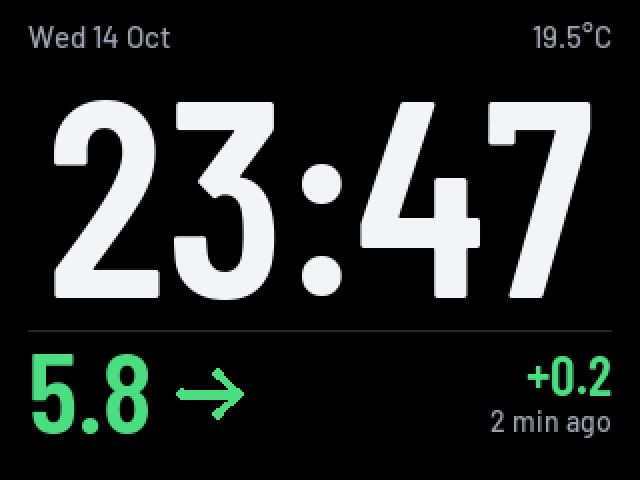
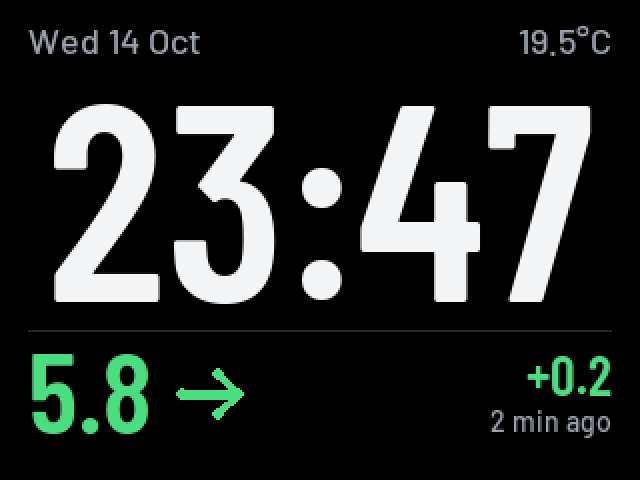
Embed fonts in the firmware; larger date and temperature
Fonts moved from the SD card into fonts/ and are embedded with
board_build.embed_files, read from flash (no RAM, updated with OTA). The
SD card now only needs M5NS.INI. Built-in font fallbacks removed.

Date and temperature now use an 18px font (was 15px) with a 22px top
line; the clock area shrinks by 4px (digits unchanged).

diff --git a/src/display.cpp b/src/display.cpp
@@ -1,7 +1,6 @@
 #include "display.h"
 
 #include <M5Unified.h>
-#include <SD.h>
 
 #include <algorithm>
 
@@ -16,12 +15,12 @@ constexpr int kPadBottom = 12;
 constexpr int kContentW = kW - 2 * kPadX;  // 292: every region is this wide
 
 constexpr int kTopY = kPadTop;
-constexpr int kTopH = 18;
+constexpr int kTopH = 22;
 constexpr int kStripH = 62;
 constexpr int kStripY = kH - kPadBottom - kStripH;  // 166
 constexpr int kDividerY = kStripY - 1;              // 165
-constexpr int kClockY = kTopY + kTopH + 8;          // 36
-constexpr int kClockH = kDividerY - 1 - kClockY;    // 128
+constexpr int kClockY = kTopY + kTopH + 8;          // 40
+constexpr int kClockH = kDividerY - 1 - kClockY;    // 124
 
 constexpr int kBandH = 32;  // band sprite: 292 x 32 x 16 bit = 18.7 KB
 
@@ -53,42 +52,37 @@ uint32_t rangeColor(BgRange r) {
 
 // ---- Fonts ------------------------------------------------------------------
 
-// Lets M5GFX stream VLW glyphs straight from an SD card file, so the large
-// clock font never has to fit in RAM.
-struct FileData : public lgfx::DataWrapper {
-  fs::File file;
-  int read(uint8_t* buf, uint32_t len) override { return file.read(buf, len); }
-  void skip(int32_t offset) override { file.seek(offset, SeekCur); }
-  bool seek(uint32_t offset) override { return file.seek(offset); }
-  void close() override {
-    if (file) file.close();
-  }
-  int32_t tell() override { return file.position(); }
-};
+// The .vlw fonts (generated by tools/make_fonts.py) are embedded in the
+// firmware image via board_build.embed_files and read straight from flash,
+// so they cost no RAM and change with a normal firmware update.
+#define EMBEDDED_FONT(name)                                                   \
+  extern const uint8_t name##_start[] asm("_binary_fonts_" #name "_vlw_start"); \
+  extern const uint8_t name##_end[] asm("_binary_fonts_" #name "_vlw_end");
+EMBEDDED_FONT(clock)
+EMBEDDED_FONT(bg)
+EMBEDDED_FONT(delta)
+EMBEDDED_FONT(text18)
+EMBEDDED_FONT(text14)
 
 struct Face {
-  const char* path;
-  const lgfx::IFont* fallback;  // built-in font if the .vlw is missing
-  float fallbackScale;
+  lgfx::PointerWrapper data;
   lgfx::VLWfont vlw;
-  FileData data;
-  bool loaded = false;
   int digitH = 0;  // height of "0" above the baseline, for vertical centring
 
-  Face(const char* p, const lgfx::IFont* f, float s) : path(p), fallback(f), fallbackScale(s) {}
+  Face(const uint8_t* start, const uint8_t* end) : data(start, end - start) {}
 };
 
-Face gClockFace("/fonts/clock.vlw", &fonts::Font8, 1.0f);  // scale computed in begin
-Face gBgFace("/fonts/bg.vlw", &fonts::Font6, 1.0f);
-Face gDeltaFace("/fonts/delta.vlw", &fonts::FreeSansBold12pt7b, 1.0f);
-Face gTextFace("/fonts/text15.vlw", &fonts::Font2, 1.0f);
-Face gSmallFace("/fonts/text14.vlw", &fonts::Font2, 1.0f);
+Face gClockFace(clock_start, clock_end);
+Face gBgFace(bg_start, bg_end);
+Face gDeltaFace(delta_start, delta_end);
+Face gTextFace(text18_start, text18_end);  // date, temperature
+Face gSmallFace(text14_start, text14_end);  // "N min ago"
 Face* const gFaces[] = {&gClockFace, &gBgFace, &gDeltaFace, &gTextFace, &gSmallFace};
 
 uint32_t be32(const uint8_t* p) { return (uint32_t)p[0] << 24 | p[1] << 16 | p[2] << 8 | p[3]; }
 
 // Reads the "0" glyph's top offset from the VLW metrics table.
-int vlwDigitHeight(FileData& d, int count) {
+int vlwDigitHeight(lgfx::DataWrapper& d, int count) {
   uint8_t m[28];
   for (int i = 0; i < count; i++) {
     d.seek(24 + i * 28);
@@ -99,65 +93,27 @@ int vlwDigitHeight(FileData& d, int count) {
 }
 
 void loadFace(Face& f) {
-  f.data.file = SD.open(f.path, FILE_READ);
-  if (!f.data.file) {
-    Serial.printf("display: %s missing, using built-in font\n", f.path);
-    return;
-  }
   if (!f.vlw.loadFont(&f.data)) {
-    Serial.printf("display: %s is not a valid VLW font\n", f.path);
-    f.data.close();
+    Serial.println("display: embedded font failed to load");
     return;
   }
   f.digitH = vlwDigitHeight(f.data, f.vlw.gCount);
-  f.loaded = true;
 }
 
 LGFX_Sprite gBand(&M5.Display);
 
 enum class Align { Left, Center, Right };
 
-void useFace(LGFX_Sprite& s, const Face& f) {
-  s.setFont(f.loaded ? static_cast<const lgfx::IFont*>(&f.vlw) : f.fallback);
-  s.setTextSize(f.loaded ? 1.0f : f.fallbackScale);
-}
-
-// Built-in fonts are ASCII only: drop the degree sign, use a plain minus.
-const char* asciiFor(const Face& f, const char* text, char* buf, size_t len) {
-  if (f.loaded) return text;
-  size_t o = 0;
-  for (const char* p = text; *p && o + 1 < len; p++) {
-    if ((uint8_t)p[0] == 0xC2 && (uint8_t)p[1] == 0xB0) { p++; continue; }  // °
-    if ((uint8_t)p[0] == 0xE2 && (uint8_t)p[1] == 0x88 && (uint8_t)p[2] == 0x92) {  // −
-      buf[o++] = '-';
-      p += 2;
-      continue;
-    }
-    buf[o++] = *p;
-  }
-  buf[o] = 0;
-  return buf;
-}
-
 // Draws text vertically centred on the digits at centerY. Returns its width.
 int drawText(LGFX_Sprite& s, const Face& f, const char* text, int x, int centerY, Align align,
              uint32_t color) {
-  char buf[32];
-  text = asciiFor(f, text, buf, sizeof(buf));
-  useFace(s, f);
+  s.setFont(&f.vlw);
+  s.setTextSize(1);
   s.setTextColor(color);  // no background: anti-aliasing blends with the sprite
-  int y = centerY;
-  if (f.loaded) {
-    s.setTextDatum(align == Align::Left    ? textdatum_t::baseline_left
-                   : align == Align::Right ? textdatum_t::baseline_right
-                                           : textdatum_t::baseline_center);
-    y += f.digitH / 2;
-  } else {
-    s.setTextDatum(align == Align::Left    ? textdatum_t::middle_left
-                   : align == Align::Right ? textdatum_t::middle_right
-                                           : textdatum_t::middle_center);
-  }
-  s.drawString(text, x, y);
+  s.setTextDatum(align == Align::Left    ? textdatum_t::baseline_left
+                 : align == Align::Right ? textdatum_t::baseline_right
+                                         : textdatum_t::baseline_center);
+  s.drawString(text, x, centerY + f.digitH / 2);
   return s.textWidth(text);
 }
 
@@ -248,7 +204,7 @@ void drawStrip(const ScreenModel& m) {
     drawTrend(s, m.trend, w + kArrowGap, cy, color);
 
     if (m.delta[0]) {
-      // Typographic minus for negative deltas (VLW font has U+2212).
+      // Typographic minus for negative deltas.
       char delta[12];
       if (m.delta[0] == '-')
         snprintf(delta, sizeof(delta), "\xE2\x88\x92%s", m.delta + 1);
@@ -281,21 +237,6 @@ void displayBegin() {
 
   gBand.setColorDepth(16);
   if (!gBand.createSprite(kContentW, kBandH)) Serial.println("display: band sprite alloc failed");
-
-  if (!gClockFace.loaded) {
-    // Scale the built-in digit font up to fill the clock width.
-    gBand.setFont(gClockFace.fallback);
-    gBand.setTextSize(1);
-    float sx = (float)kContentW / gBand.textWidth("00:00");
-    float sy = (float)kClockH / gBand.fontHeight();
-    gClockFace.fallbackScale = std::min(sx, sy);
-  }
-}
-
-int displayFontsLoaded() {
-  int n = 0;
-  for (Face* f : gFaces) n += f->loaded;
-  return n;
 }
 
 void displayMessage(const char* title, const char* detail) {

diff --git a/tools/make_fonts.py b/tools/make_fonts.py
@@ -7,9 +7,10 @@ into the VLW anti-aliased font format read by M5GFX / LovyanGFX / TFT_eSPI.
 Usage (from the repo root):
     python3 -m venv tools/.venv
     tools/.venv/bin/pip install pillow
-    tools/.venv/bin/python tools/make_fonts.py          # writes SD/fonts/*.vlw
+    tools/.venv/bin/python tools/make_fonts.py          # writes fonts/*.vlw
 
-Copy the SD/fonts folder to the root of the microSD card (-> /fonts/*.vlw).
+The fonts are embedded in the firmware (board_build.embed_files in
+platformio.ini), so rebuild and flash after regenerating them.
 
 The Barlow fonts are (c) The Barlow Project Authors, SIL Open Font License 1.1
 (see tools/ttf/OFL.txt). If the .ttf files are missing they are downloaded
@@ -26,7 +27,7 @@ from PIL import Image, ImageDraw, ImageFont
 
 ROOT = os.path.dirname(os.path.dirname(os.path.abspath(__file__)))
 TTF_DIR = os.path.join(ROOT, "tools", "ttf")
-OUT_DIR = os.path.join(ROOT, "SD", "fonts")
+OUT_DIR = os.path.join(ROOT, "fonts")
 
 TTF_URLS = {
     "BarlowCondensed-SemiBold.ttf":
@@ -53,7 +54,7 @@ FONTS = {
     "clock": (NUM_TTF, None, "0123456789:-"),
     "bg":    (NUM_TTF, 58, "0123456789.-"),
     "delta": (NUM_TTF, 28, "0123456789.+-" + MINUS),
-    "text15": (TXT_TTF, 15, ASCII + "°"),
+    "text18": (TXT_TTF, 18, ASCII + "°"),
     "text14": (TXT_TTF, 14, ASCII + "°"),
 }
 
@@ -115,7 +116,7 @@ def clock_size():
 
 def main():
     ap = argparse.ArgumentParser(description=__doc__.splitlines()[0])
-    ap.add_argument("--out", default=OUT_DIR, help="output directory (default SD/fonts)")
+    ap.add_argument("--out", default=OUT_DIR, help="output directory (default fonts/)")
     args = ap.parse_args()
     os.makedirs(args.out, exist_ok=True)
 

diff --git a/tools/preview.py b/tools/preview.py
@@ -14,12 +14,12 @@ import struct
 from PIL import Image, ImageDraw
 
 ROOT = os.path.dirname(os.path.dirname(os.path.abspath(__file__)))
-FONTS = os.path.join(ROOT, "SD", "fonts")
+FONTS = os.path.join(ROOT, "fonts")
 
 W, H = 320, 240
 PAD_X, PAD_TOP, PAD_BOTTOM = 14, 10, 12
 CONTENT_W = W - 2 * PAD_X
-TOP_Y, TOP_H = PAD_TOP, 18
+TOP_Y, TOP_H = PAD_TOP, 22
 STRIP_H = 62
 STRIP_Y = H - PAD_BOTTOM - STRIP_H
 DIVIDER_Y = STRIP_Y - 1
@@ -88,8 +88,8 @@ def screen(f, date, temp, time, bg=None, delta="", trend=None, color=GREEN, stal
     img = Image.new("RGB", (W, H), "black")
     d = ImageDraw.Draw(img)
     cy = TOP_Y + TOP_H // 2
-    f["text15"].draw(img, date, PAD_X, cy, "left", DIM)
-    f["text15"].draw(img, temp, PAD_X + CONTENT_W, cy, "right", DIM)
+    f["text18"].draw(img, date, PAD_X, cy, "left", DIM)
+    f["text18"].draw(img, temp, PAD_X + CONTENT_W, cy, "right", DIM)
     f["clock"].draw(img, time, PAD_X + CONTENT_W // 2, CLOCK_Y + CLOCK_H // 2, "center", CLOCK)
     d.line([(PAD_X, DIVIDER_Y), (PAD_X + CONTENT_W - 1, DIVIDER_Y)], fill=DIVIDER)
 
@@ -113,7 +113,7 @@ def screen(f, date, temp, time, bg=None, delta="", trend=None, color=GREEN, stal
 
 
 def main():
-    f = {n: Vlw(os.path.join(FONTS, n + ".vlw")) for n in ("clock", "bg", "delta", "text15", "text14")}
+    f = {n: Vlw(os.path.join(FONTS, n + ".vlw")) for n in ("clock", "bg", "delta", "text18", "text14")}
     shots = [
         screen(f, "Wed 14 Oct", "19.5°C", "23:47", "5.8", "+0.2", "Flat", GREEN, age="2 min ago"),
         screen(f, "Wed 14 Oct", "19.5°C", "03:12", "10.4", "+0.6", "FortyFiveUp", AMBER, age="just now"),

diff --git a/src/main.cpp b/src/main.cpp
@@ -50,9 +50,9 @@ bool gPressedOnce = false;
 int gAppliedBrightness = -1;
 
 bool mountSd() {
-  // The SD card shares the SPI bus with the LCD (CS on GPIO 4). The 5 fonts
-  // stay open for glyph streaming; saving settings needs up to 3 more.
-  return SD.begin(GPIO_NUM_4, SPI, 25000000, "/sd", 10);
+  // The SD card shares the SPI bus with the LCD (CS on GPIO 4). It only holds
+  // M5NS.INI; saving settings opens up to 3 files at once.
+  return SD.begin(GPIO_NUM_4, SPI, 25000000, "/sd", 4);
 }
 
 bool isNight() {
@@ -231,7 +231,6 @@ void showStatusPage(uint32_t now) {
          sensorTemperature(), sensorHumidity());
   else
     line("Sensor: DHT12 not found");
-  line("Fonts: %d/5 loaded from SD /fonts", displayFontsLoaded());
   line("Heap: %u free, %u min, %u max block", ESP.getFreeHeap(), ESP.getMinFreeHeap(),
        ESP.getMaxAllocHeap());
   uint32_t up = now / 1000;
@@ -384,7 +383,6 @@ void setup() {
   timeSetup(gCfg.tz);
   loadLevel();
   displayBegin();
-  if (displayFontsLoaded() < 5) logEvent("Fonts: only %d/5 found in /fonts", displayFontsLoaded());
   if (gCfg.wifiCount == 0) logEvent("No Wi-Fi networks in M5NS.INI");
   networkBegin(gCfg);
   webBegin(gCfg, kIniPath, {applySettings, buildModel});

diff --git a/include/display.h b/include/display.h
@@ -24,8 +24,7 @@ struct ScreenModel {
   char age[20] = "";    // "3 min ago" / "just now"
 };
 
-void displayBegin();       // M5.begin() and SD must already be up
-int displayFontsLoaded();  // number of .vlw fonts loaded from /fonts (of 5)
+void displayBegin();  // after M5.begin()
 
 // Full-screen centred message (boot, missing SD card, ...).
 void displayMessage(const char* title, const char* detail);

diff --git a/README.md b/README.md
@@ -36,7 +36,7 @@ using made-up example data.*
 
 ## Features
 
-- **Big, clear clock** in Barlow Condensed, with the date and room temperature above it.
+- **Big, clear clock** in Barlow Condensed, with the date and room temperature (to 0.1°) above it.
 - **Nightscout glucose** with trend arrow, change since the last reading, and how old it is. Fetched every 60 s.
 - **Your colours:** green in range, amber and red at the thresholds you choose, in mmol/L or mg/dL.
 - **Stale warning:** if no new reading arrives for 10 minutes (adjustable), the value greys out and is struck through.
@@ -53,7 +53,7 @@ using made-up example data.*
 | --- | --- |
 | **M5Stack Basic Core** (K001, ESP32, 320×240 screen) | The original Basic/Gray. Other M5Stacks are untested. |
 | **M5Stack BTC Standing Base** | Optional. Provides the DHT12 temperature sensor. Without it the temperature is just blank. |
-| **microSD card** | Any size, formatted FAT32. Holds the settings and fonts. |
+| **microSD card** | Any size, formatted FAT32. Holds the settings file. |
 | **USB-A to USB-C cable** | Needed once, for the first flash. **A USB-C to USB-C cable won't work** with the original Basic: its port lacks the resistors that USB-C chargers and computers look for. On a USB-C-only Mac, use a USB-A adapter or hub. |
 | A **Nightscout** site | Its address and, if it's locked down, an access token with the `readable` role. |
 | A computer with **[PlatformIO](https://platformio.org/)** | `brew install platformio` on macOS, or the VS Code extension. |
@@ -69,14 +69,7 @@ cd M5_NightscoutBedside
 
 ### 2. Prepare the SD card
 
-Copy the **contents** of the [`SD/`](SD) folder to the root of the card, so it looks like this:
-
-```
-M5NS.INI
-fonts/clock.vlw  fonts/bg.vlw  fonts/delta.vlw  fonts/text14.vlw  fonts/text15.vlw  fonts/OFL.txt
-```
-
-Open `M5NS.INI` in a text editor and fill in at least:
+Copy [`SD/M5NS.INI`](SD/M5NS.INI) to the root of the card, open it in a text editor and fill in at least:
 
 ```ini
 [config]
@@ -96,8 +89,8 @@ Comments (`;` or `#`) must be on their own line. Anything after a value counts a
 
 The other settings have sensible defaults, and you can change them all later from the settings page.
 
-> If you already run M5_NightscoutMon, keep your existing `M5NS.INI`. Just add the `fonts` folder,
-> and optionally a `tz = …` line (see [Configuration](#configuration)).
+> If you already run M5_NightscoutMon, keep your existing `M5NS.INI`, optionally adding a
+> `tz = …` line (see [Configuration](#configuration)).
 
 Put the card in the M5Stack.
 
@@ -154,7 +147,7 @@ dims between the hours you set. A press of any button brings normal brightness b
 is dimmed, that first press only wakes it, so fumbling in the dark doesn't change anything.
 
 **Status page:** Wi-Fi network and signal, IP address, Nightscout site, last fetch time and result, latest
-reading, time zone, brightness, sensor, fonts loaded, free memory and uptime.
+reading, time zone, brightness, sensor (corrected and raw), free memory and uptime.
 
 **Log page:** the last 13 notable events, newest first, so you can see what happened overnight.
 Repeats are collapsed (`02:10-02:24 NS HTTP 502 x14`).
@@ -165,7 +158,7 @@ Repeats are collapsed (`02:10-02:24 NS HTTP 502 x14`).
 | Wi-Fi connected / lost | `Wi-Fi: MyHomeWiFi -61 dBm`, `Wi-Fi lost` |
 | Nightscout problems and recovery | `NS HTTP 502`, `NS OK again after 3 failures` |
 | Data going stale, and why | `Stale: Nightscout has no new data`, `Stale: fetches failing` |
-| Time sync, sensor, fonts, I2C devices | `Time synced (NTP)`, `Sensor: DHT12 found`, `I2C: 5C 75` |
+| Time sync, sensor, I2C devices | `Time synced (NTP)`, `Sensor: DHT12 found`, `I2C: 5C 75` |
 
 The log is kept in memory, so it starts fresh after a restart, but the first entry records why the clock restarted.
 
@@ -252,7 +245,6 @@ The SD card doesn't need changing.
 | `---` instead of a reading | Check *Result* on the status page: `HTTP 401` means a wrong or missing token. |
 | No temperature | The DHT12 is in the stand. The log's `I2C:` line should list `5C`. |
 | Temperature reads high | The sensor sits under the warm M5Stack. Set a temperature correction on the settings page. |
-| Blocky digits | The `fonts` folder is missing from the SD card (status page: *Fonts 0/5*). |
 | `m5clock.local` is slow or doesn't open | Use the IP address from the status page. Some apps wait ~5 s for an IPv6 answer first. |
 
 ## Development
@@ -277,8 +269,8 @@ Some design notes:
 
 - **No PSRAM on the Basic**, so there's no full-screen buffer. Each screen region is drawn into one reused
   292×32 sprite band and pushed in one go, which avoids flicker. Only regions that changed are redrawn.
-- **Fonts** are anti-aliased `.vlw` files streamed from the SD card a glyph at a time. The clock digits alone
-  would be ~60 KB in RAM. Missing fonts fall back to M5GFX's built-in ones.
+- **Fonts** are anti-aliased `.vlw` files in [`fonts/`](fonts), embedded in the firmware with
+  `board_build.embed_files` and read straight from flash, so they use no RAM and change with a normal update.
 - **Network** (Wi-Fi, NTP, HTTPS) runs in its own FreeRTOS task, so the clock and buttons never wait on it.
   Wi-Fi power saving is off, because the clock is always on USB power.
 - Sound alarms aren't implemented. They would hook in where `main.cpp` builds the screen model, using
@@ -288,7 +280,7 @@ Regenerating assets (fonts, screen previews and the settings-page screenshot):
 
 ```bash
 python3 -m venv tools/.venv && tools/.venv/bin/pip install pillow
-tools/.venv/bin/python tools/make_fonts.py     # SD/fonts/*.vlw from the Barlow TTFs
+tools/.venv/bin/python tools/make_fonts.py     # fonts/*.vlw from the Barlow TTFs (then rebuild)
 tools/.venv/bin/python tools/preview.py        # docs/preview.png, docs/clock.png
 python3 tools/settings_screenshot.py           # docs/settings.png (needs Google Chrome)
 ```
